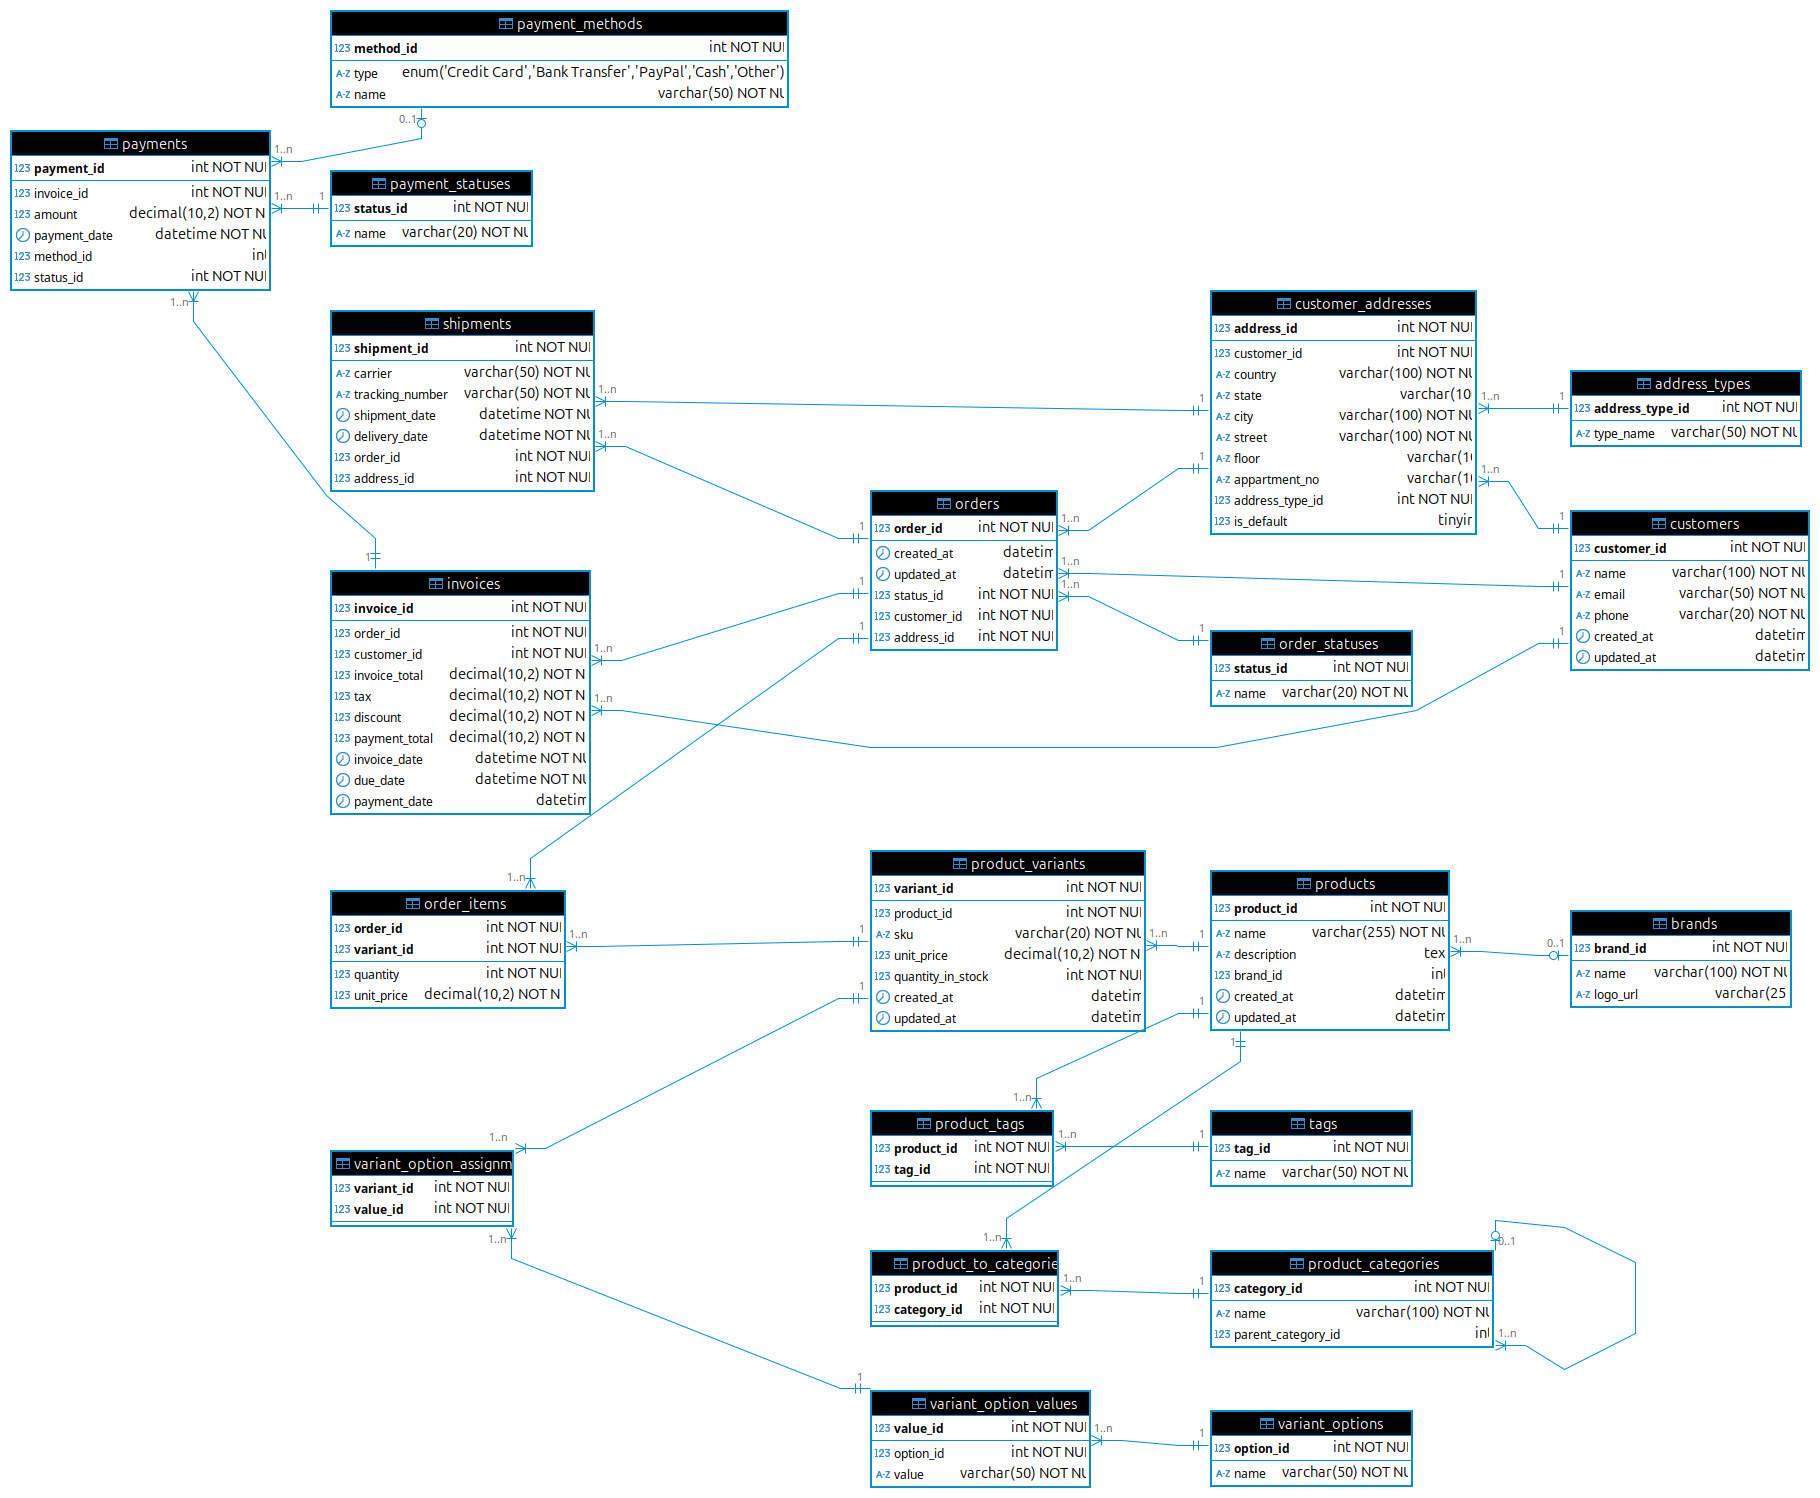
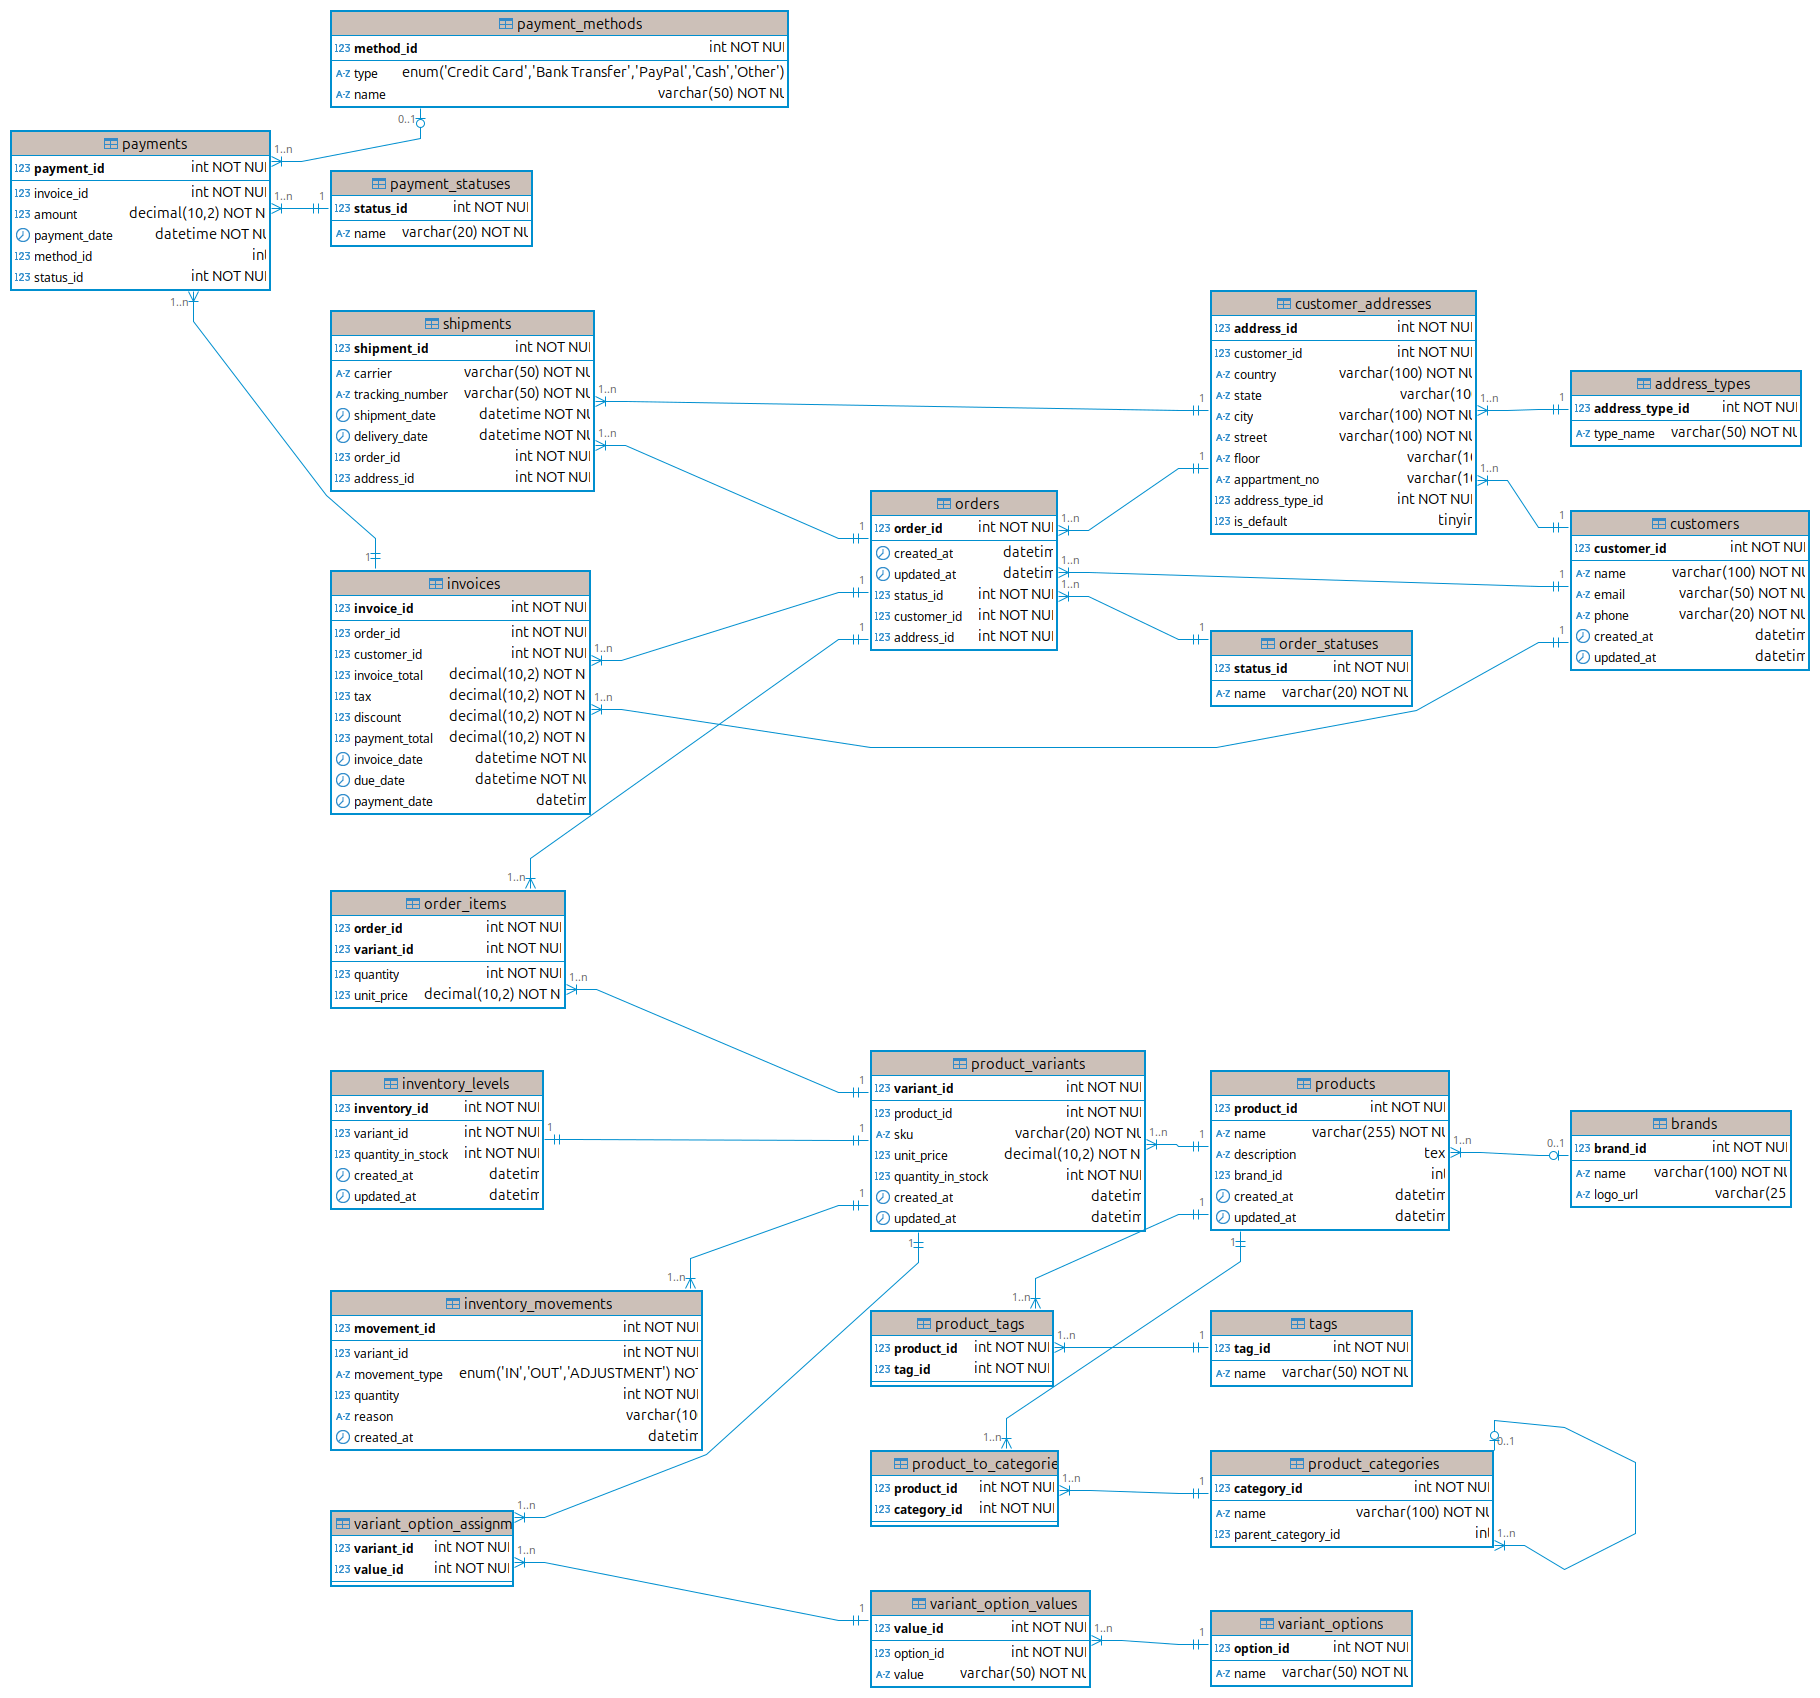
Add inventory management

diff --git a/documents/RnD_Notes.md b/documents/RnD_Notes.md
@@ -85,7 +85,7 @@ Each row is a unique combination of options for a product. For example T-shirt, 
 - `product_id`: `FK`
 - `sku`: `UQ`
 - `unit_price`
-- `quantity_in_stock`
+- ~~quantity_in_stock~~ - this will be moved to inventory
 
 ### `variant_options` table
 
@@ -249,6 +249,26 @@ Requirements are a bit vague. Should we support multiple warehouses locations? S
 
 Let's model the simplest scenario where we just keep track of all quantities and update them when a change occurs.
 
-### `inventory` table
+Another important change: `quantity_in_stock` should not be a field of `product_variants` anymore, to should be part of `inventory` instead. This will also allow to suport different quantities in different warehaouses (if needed) which in itself suggests that quantity is not really a property of a variant. This will also improve queries performance because we just need to perform a direct lookup by id which is straighforward.
 
-TBD
+Altohough to mentioned in the initial requirements, it is worth considering an `inventory_movements` table that will keep track of all changes. This will make it possible to track and debug all changes in the inventory. So let's do that as well.
+
+
+Add `trg_after_inventory_movement_insert` trigger to ensure inventory_levels are properly adjusted when there is a new entry in `inventory_movements`
+
+### `inventory_levels` table
+
+- `inventory_id`: `PK`
+- `variant_id`: `FK`
+- `quantity_in_stock`
+- `created_at`
+- `updated_at`
+
+### `inventory_movements` table
+
+- `movement_id`: `PK`
+- `variant_id`: `FK`
+- `movement_type` - for simplicity I'll make it enum, but this is not ideal as it is not normalized
+- `quantity`
+- `reason`
+- `created_at`
